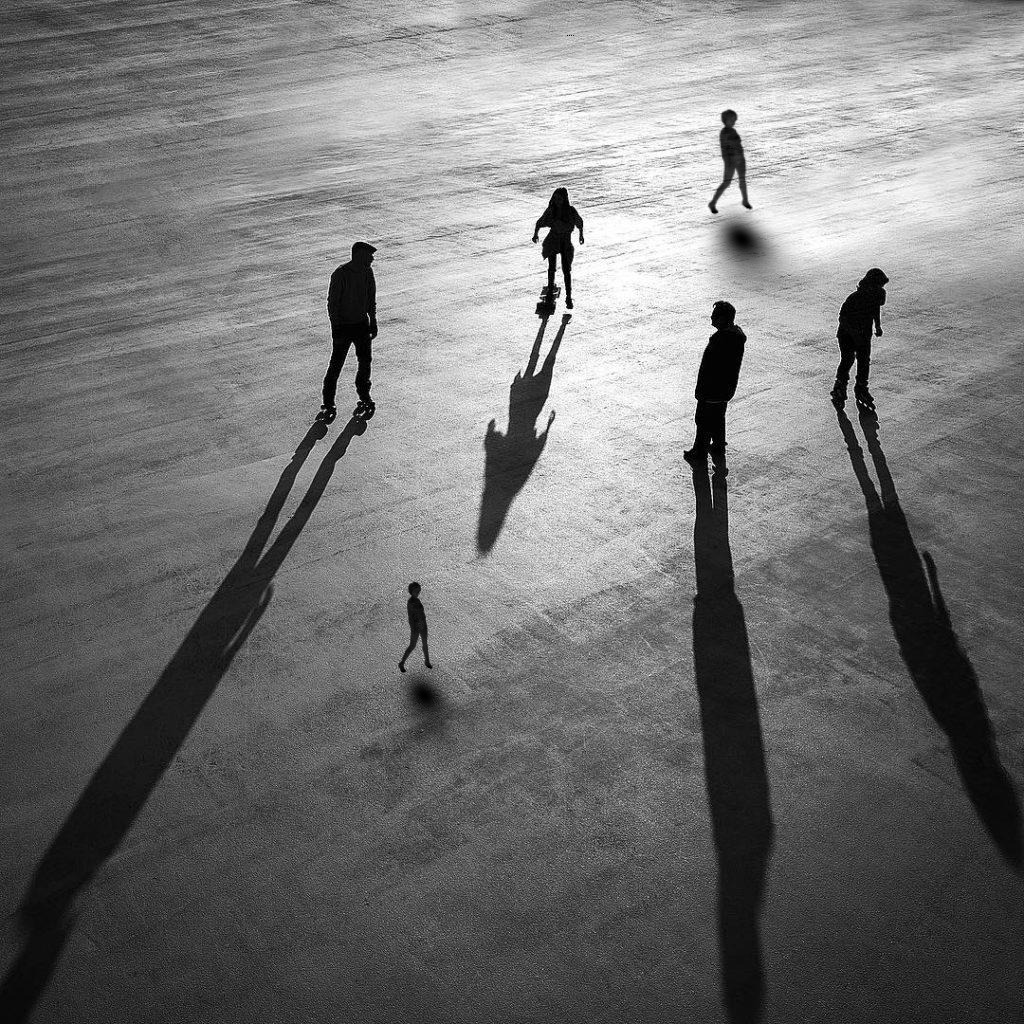
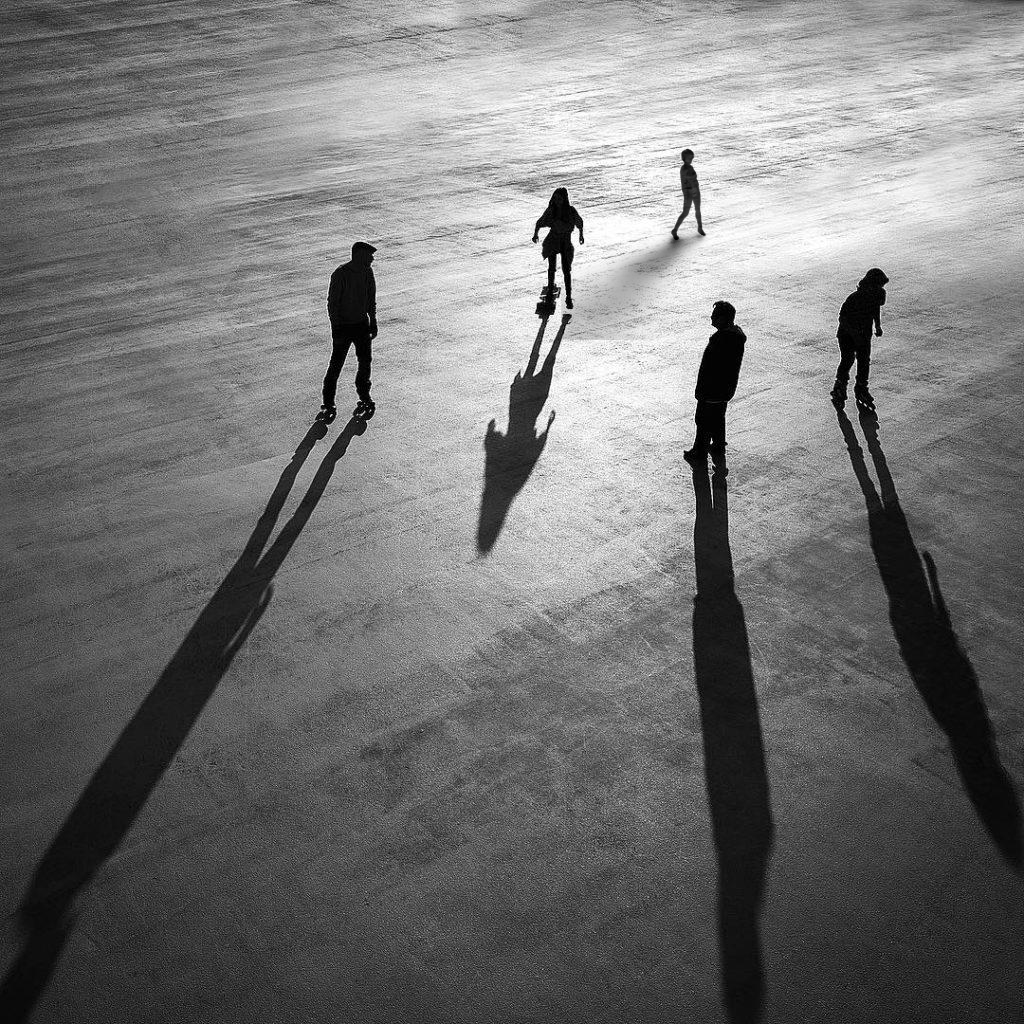
use multiple composite

Changed region(s): [[0.5312, 0.0938, 0.7812, 0.3438], [0.375, 0.5625, 0.4688, 0.7188]]

diff --git a/image_composite.py b/image_composite.py
@@ -94,6 +94,7 @@ class composite_gui(QMainWindow):
     def dragMoveEvent(self, e):
         e.accept()
         self.cur_cutout.move(e.pos() - self.cur_cutout_offset)
+        self.render_layers()
 
     """ Utilities
     """
@@ -154,16 +155,11 @@ class composite_gui(QMainWindow):
         self.cur_cutout = self.get_cutout_label(id)
         self.cur_cutout_offset = offset_pos
 
-    def composite_layer_result(self, cur_canvas, cur_widget):
-        """
-            input:   canvas image, widget
-            outout:  alpha blending compsite result
-        """
-        tmp, cutout = cur_canvas.copy(), cur_widget
-        cutout_img = cutout.get_render_img()/255.0
+    def composite_region(self, cur_canvas, cur_widget):
+        tmp, cutout = cur_canvas, cur_widget
         canvas_h, canvas_w = tmp.shape[0], tmp.shape[1]
         x, y = cutout.pos().x() - self.canvas.pos().x(), cutout.pos().y() - self.canvas.pos().y()
-        h, w, _ = cutout_img.shape
+        h, w = cur_widget.height(), cur_widget.width()
 
         mask_x, mask_y = 0, 0
         mask_h, mask_w = h, w
@@ -185,17 +181,30 @@ class composite_gui(QMainWindow):
             tmp_y = y
 
         tmp_h, tmp_w = mask_h - mask_y, mask_w - mask_x
-        mask = cutout_img[mask_y: mask_h, mask_x:mask_w, 3]
-        mask = np.repeat(mask[:, :, np.newaxis], 3, axis=2)
-        print('original shape: ', tmp.shape)
-        print('tmp: {}, tmp x: {}, tmp y: {}, tmp w:{}, tmp h: {}'.format(
-            tmp[tmp_y:tmp_y + tmp_h, tmp_x:tmp_x + tmp_w, :].shape, tmp_x, tmp_y, tmp_w, tmp_h))
-        print(
-            'mask: {}, mask: x: {}, mask y: {}, mask w: {}, mask h: {}'.format(mask.shape, mask_x, mask_y, mask_w, mask_h))
+        canvas_region = (tmp_y, tmp_y + tmp_h, tmp_x, tmp_x + tmp_w)
+        widget_region = (mask_y, mask_y + mask_h, mask_x, mask_x + mask_w)
+        return canvas_region, widget_region
 
-        tmp[tmp_y:tmp_y + tmp_h, tmp_x:tmp_x + tmp_w, :] = (1.0 - mask) * tmp[tmp_y:tmp_y + tmp_h, tmp_x:tmp_x + tmp_w,
-                                                                          :] + mask * cutout_img[mask_y: mask_y + mask_h,
-                                                                                      mask_x:mask_x + mask_w, :3]
+
+    def composite_layer_result(self, cur_canvas, cur_widget, composite_img, composite_operator='lerp'):
+        """
+            input:   canvas image, widget
+            outout:  alpha blending compsite result
+        """
+        tmp, cutout = cur_canvas.copy(), cur_widget
+        cutout_img =  composite_img
+        canvas_region, widget_region = self.composite_region(cur_canvas, cur_widget)
+        if composite_operator == 'lerp':
+            mask = cutout_img[widget_region[0]:widget_region[1], widget_region[2]:widget_region[3], 3:]
+            mask = np.repeat(mask, 3, axis=2)
+
+            tmp[canvas_region[0]:canvas_region[1], canvas_region[2]:canvas_region[3], :] = \
+                (1.0 - mask) * tmp[canvas_region[0]:canvas_region[1], canvas_region[2]:canvas_region[3], :] + \
+                mask * cutout_img[widget_region[0]:widget_region[1], widget_region[2]:widget_region[3], :3]
+        else:
+            tmp[canvas_region[0]:canvas_region[1], canvas_region[2]:canvas_region[3], :] = \
+                tmp[canvas_region[0]:canvas_region[1], canvas_region[2]:canvas_region[3],:] * composite_img[widget_region[0]:widget_region[1], widget_region[2]:widget_region[3],:]
+
         return tmp
 
     def render_cutout(self, cur_canvas):
@@ -203,16 +212,16 @@ class composite_gui(QMainWindow):
         canvas_h, canvas_w,_ = tmp.shape
         # composite result with cutout
         for cutout in self.cutout_layer:
-            tmp = self.composite_layer_result(tmp, cutout)
+            tmp = self.composite_layer_result(tmp, cutout, cutout.get_img())
 
         return tmp
 
     def render_shadow(self, cur_canvas):
         """
-            Render shadow to cutout layers
+            Render shadow to canvas
         """
         if len(self.cutout_layer) == 0:
-            return
+            return cur_canvas
 
         # h x w
         ibl_np = self.ibl.get_ibl_numpy()
@@ -238,16 +247,20 @@ class composite_gui(QMainWindow):
         print('mask input: {}, {}, ibl: {}, {}, {}'.format(np.min(mask_input), np.max(mask_input), np.min(ibl_np), np.max(ibl_np), np.sum(ibl_np)))
         shadow_pred = evaluation.net_render_np(mask_input, ibl_np)
         print('shadow pred: {}, {}'.format(np.min(shadow_pred), np.max(shadow_pred)))
+        tmp = cur_canvas.copy()
         for i, shadow in enumerate(shadow_pred):
             shadow = np.transpose(shadow, (1,2,0))
             print('shadow shape: ', shadow.shape)
-            cv2.normalize(shadow[:,:,0], shadow[:,:,0], 0.0,1.0,cv2.NORM_MINMAX)
+            cv2.normalize(shadow[:,:,0], shadow[:,:,0], 0.0, 1.0, cv2.NORM_MINMAX)
             h,w = shadow.shape[0], shadow.shape[1]
-            shadow_out = np.zeros((h,w,4))
-            shadow_out[:,:,3:] = shadow
-            shadow_out[:,:,0] = shadow_out[:,:,1] = shadow_out[:,:,2] = 1.0 - shadow_out[:,:,3]
+            shadow_out = np.zeros((h,w,3))
+            shadow_out[:,:,0] = shadow_out[:,:,1] = shadow_out[:,:,2] = 1.0 - shadow[:,:,0]
+            shadow_out = cv2.resize(shadow_out, (self.cutout_layer[i].width(), self.cutout_layer[i].height()))
 
-            self.cutout_layer[i].composite_shadow(shadow_out)
+            # composite shadow with canvas
+            tmp = self.composite_layer_result(tmp, self.cutout_layer[i], shadow_out, 'prod')
+
+        return tmp
 
     #################### Actions ##############################
     @pyqtSlot()
@@ -261,21 +274,24 @@ class composite_gui(QMainWindow):
         cutout_file = self.load_file()
         print('load file', cutout_file)
         self.add_cutout(cutout_file)
+        self.render_layers()
 
     @pyqtSlot()
     def render_layers(self):
         print('canvas shape: ', self.canvas_img.shape)
 
-        self.render_shadow(self.canvas_img)  # render to cutout layers
-        # self.canvas_img = self.render_cutout(self.canvas_img) # composite cutout with canvas
-        # self.set_img(self.to_qt_img(self.canvas_img), self.canvas)
+        shadow_canvas = self.render_shadow(self.canvas_img)  # render to cutout layers
+        shadow_canvas = self.render_cutout(shadow_canvas) # composite cutout with canvas
+        self.set_img(self.to_qt_img(shadow_canvas), self.canvas)
+        # todo, make drag_widget invisible
+        return shadow_canvas
 
     @pyqtSlot()
     def save_result(self):
         # get save file name
         dir_path = os.path.dirname(os.path.realpath(__file__))
         save_fname = QFileDialog.getSaveFileName(self, 'Open file', os.path.join(dir_path,'output'))
-        out_img = self.render_cutout(self.canvas_img)
+        out_img = self.render_layers()
 
         if cv2.imwrite(save_fname[0], out_img):
             print('file {} saved succeed'.format(save_fname[0]))

diff --git a/drag_widget.py b/drag_widget.py
@@ -36,6 +36,7 @@ class drag_img(QLabel):
                 np_img = cv2.resize(self.img, (w, h))
                 # self.set_img(np_img)
                 self.setFixedSize(w,h)
+                self.parent().render_layers()
 
         elif e.buttons() == Qt.RightButton:
             mimeData = QMimeData()
@@ -80,13 +81,13 @@ class drag_img(QLabel):
         h,w = self.height(), self.width()
         return cv2.resize(self.img, (w, h))
 
-    def get_render_img(self):
-        img = self.pixmap().toImage().convertToFormat(QImage.Format_RGBA8888)
-        w,h = self.width(), self.height()
-        ptr = img.bits()
-        ptr.setsize(h * w * 4)
-        ret = np.frombuffer(ptr, np.uint8).reshape((h,w,4))
-        return ret
+    # def get_render_img(self):
+    #     img = self.pixmap().toImage().convertToFormat(QImage.Format_RGBA8888)
+    #     w,h = self.width(), self.height()
+    #     ptr = img.bits()
+    #     ptr.setsize(h * w * 4)
+    #     ret = np.frombuffer(ptr, np.uint8).reshape((h,w,4))
+    #     return ret
 
     def set_img(self, np_img):
         h,w,_ = np_img.shape
@@ -117,24 +118,4 @@ class drag_img(QLabel):
         self.img = plt.imread(file)
         print('min: {}, max: {}'.format(np.min(self.img), np.max(self.img)), self.img.shape)
         self.set_img(self.img)
-
-    def composite_shadow(self, shadow_np):
-        """
-        input:
-            shadow_np: h x w x 4
-        """
-        alpha = shadow_np[:,:,3]
-        alpha = np.repeat(alpha[:,:,np.newaxis], 3, axis=2)
-
-        tmp = self.img.copy()
-        # tmp[:,:,:3] = (1.0-alpha) * tmp[:,:,:3] + alpha * shadow_np[:,:,:3]
-        # tmp[:,:,3] = tmp[:,:,3] + alpha[:,:,0]
-        tmp_mask = tmp[:,:,3:]
-        tmp_mask = np.repeat(tmp_mask, 3, axis=2)
-        tmp[:,:,:3] = (1.0 - tmp_mask) * shadow_np[:,:,:3] + tmp_mask * tmp[:,:,:3]
-        tmp[:,:,3] = tmp[:,:,3] + alpha[:,:,0]
-
-        tmp = np.clip(tmp, 0.0, 1.0)
-        tmp = cv2.resize(tmp, (self.width(), self.height()))
-        self.set_img(tmp)
 

diff --git a/evaluation.py b/evaluation.py
@@ -22,7 +22,8 @@ parser.add_argument('-f', '--file', type=str, help='input model file')
 parser.add_argument('-m', '--mask', type=str, help='mask file')
 parser.add_argument('-i', '--ibl', type=str, help='ibl file')
 parser.add_argument('-o', '--output', type=str, help='output folder')
-parser.add_argument('-w', '--weight', type=str, help='weight of current model', default='weights/human_gui_22-August-11-56-AM.pt')
+parser.add_argument('-w', '--weight', type=str, help='weight of current model',
+                    default='weights/human_gui_25-August-12-04-AM.pt')
 parser.add_argument('-v', '--verbose', action='store_true', help='output file name')
 
 options = parser.parse_args()
